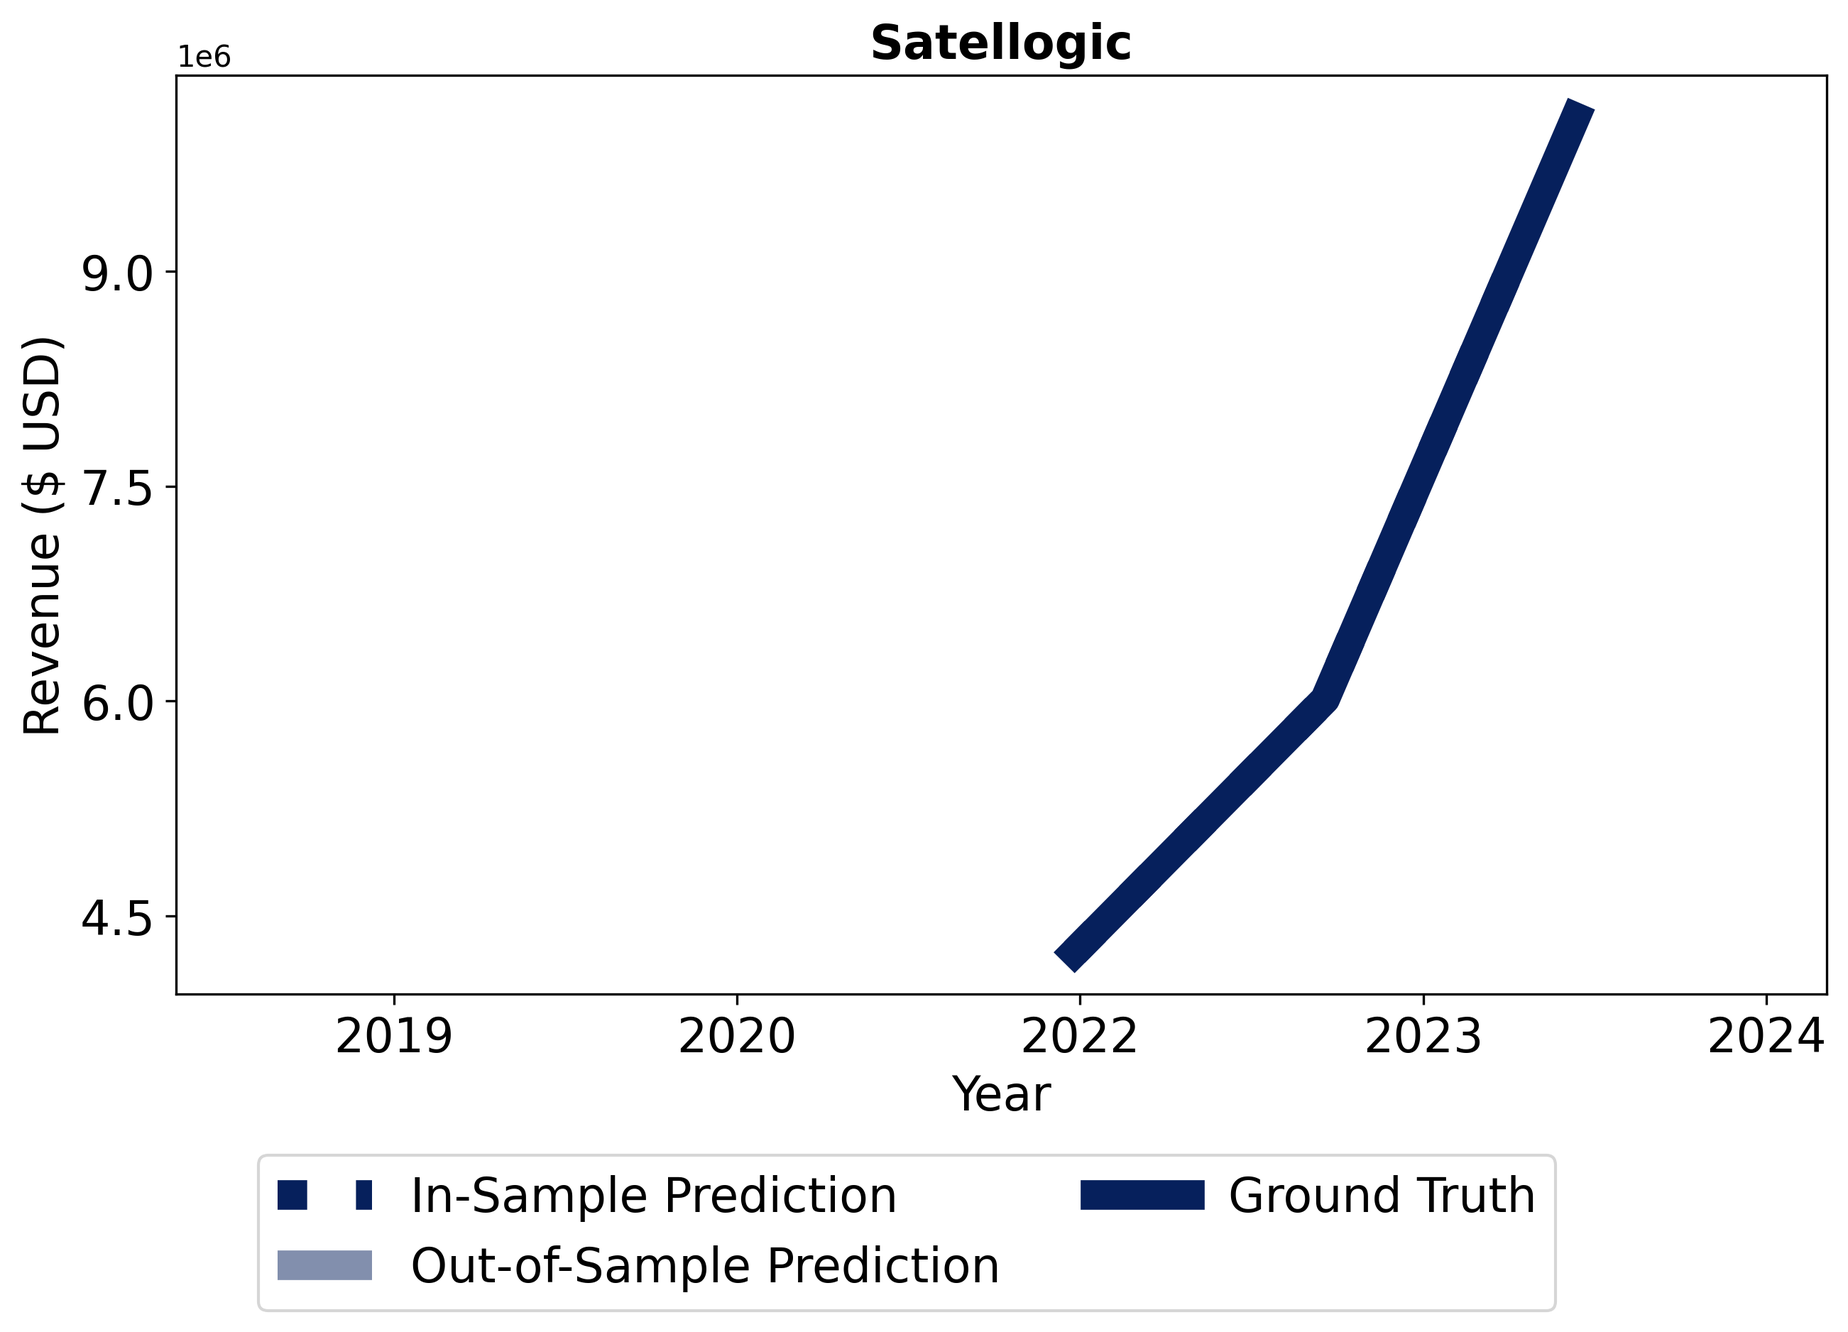
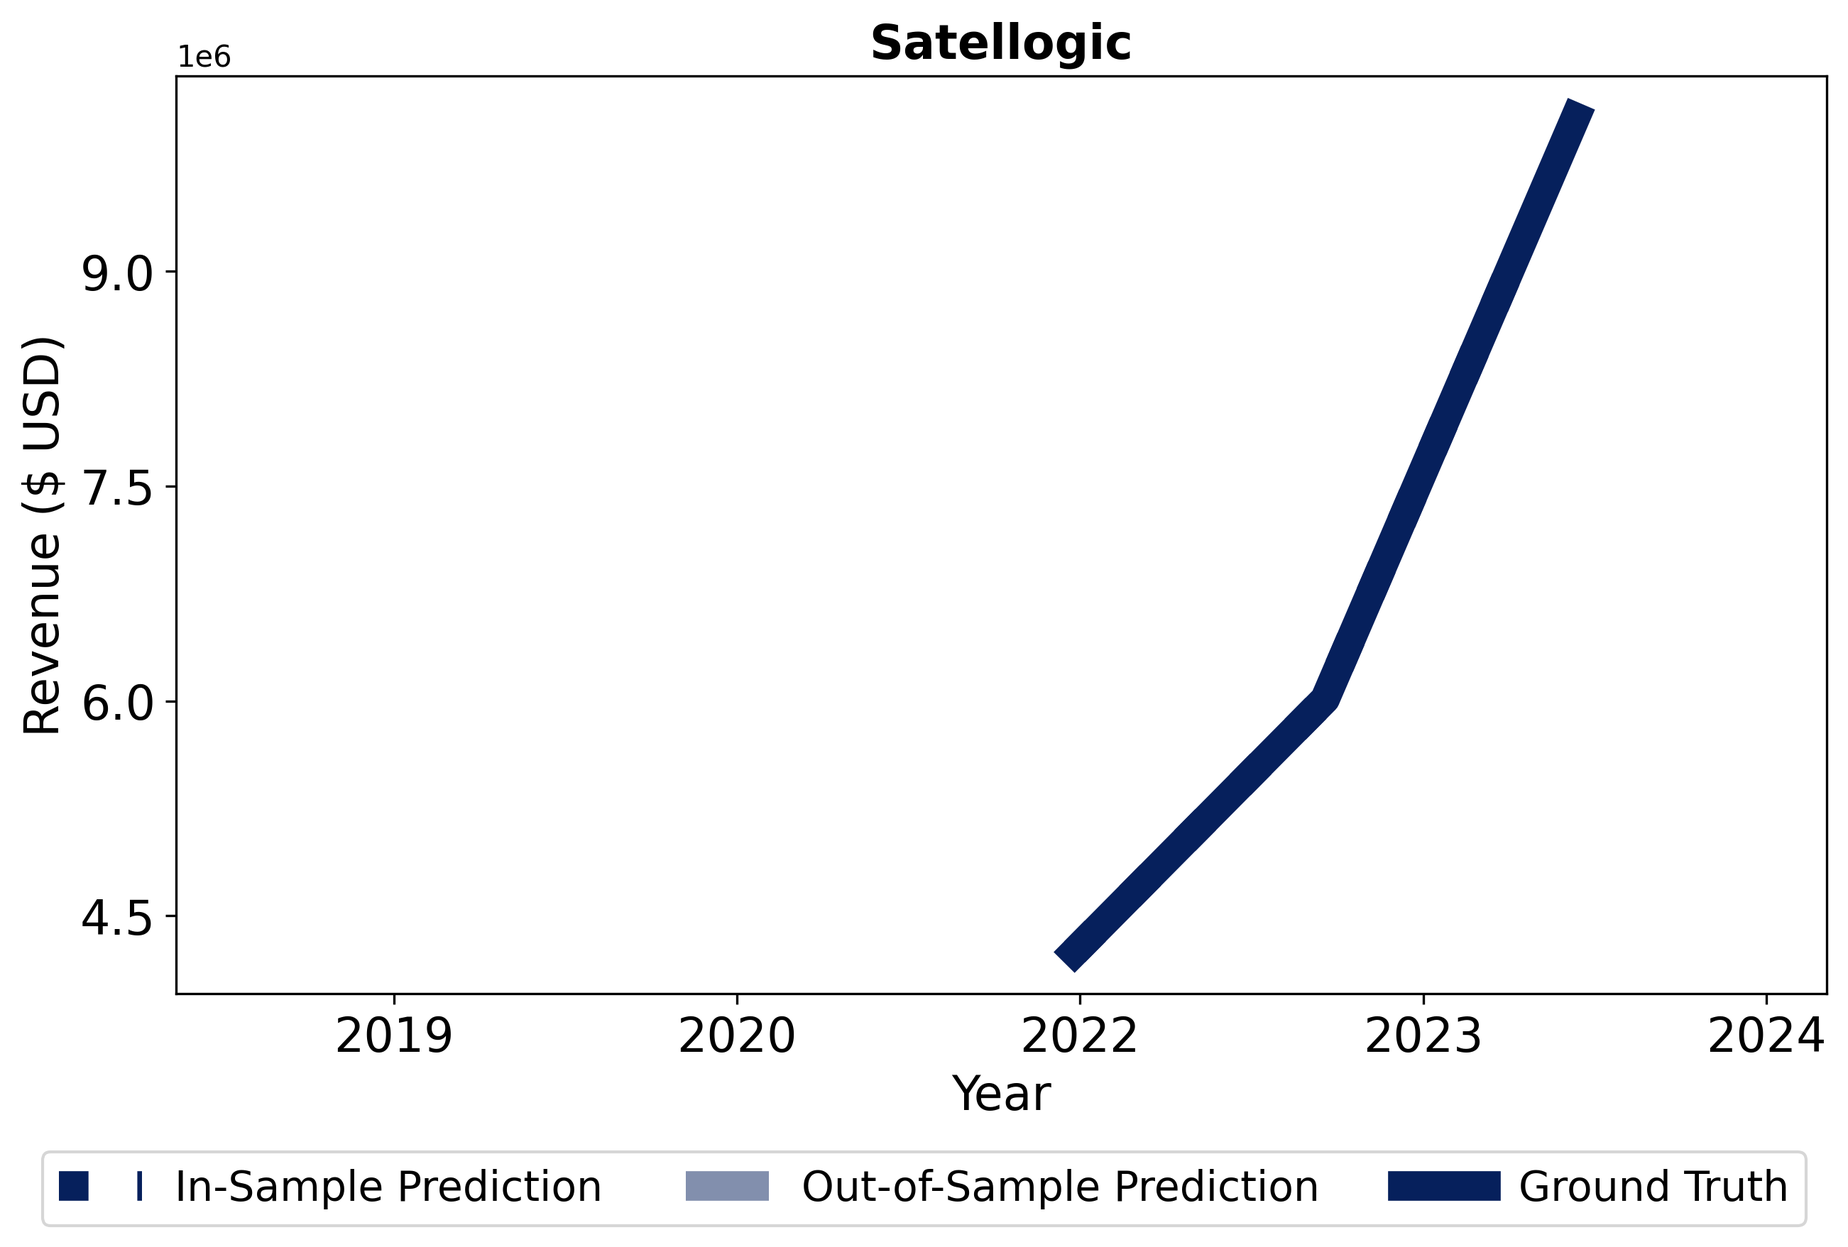
[UPDATE] update plots

diff --git a/src/process.py b/src/process.py
@@ -121,29 +121,31 @@ eurExchangeRateData = pd.read_csv(eurExchangeRatePath, header=None, names=['Date
 eurExchangeRateData['Date'] = pd.to_datetime(eurExchangeRateData['Date'])
 
 # ACF/PACF Plots
-fig1, ax1 = plt.subplots(2, 3, figsize=(12, 10), dpi=300)
-fig1.suptitle("ACF: Assets", fontsize=20)
-fig2, ax2 = plt.subplots(2, 3, figsize=(12, 10), dpi=300)
-fig2.suptitle("PACF: Assets", fontsize=20)
 fig21, ax21 = plt.subplots(2, 3, figsize=(12, 10), dpi=300)
-fig21.suptitle("ACF: Liabilities", fontsize=20)
+fig21.suptitle("ACF: Assets", fontsize=20)
 fig22, ax22 = plt.subplots(2, 3, figsize=(12, 10), dpi=300)
-fig22.suptitle("PACF: Liabilities", fontsize=20)
+fig22.suptitle("PACF: Assets", fontsize=20)
 fig23, ax23 = plt.subplots(2, 3, figsize=(12, 10), dpi=300)
-fig23.suptitle("ACF: Equity", fontsize=20)
+fig23.suptitle("ACF: Liabilities", fontsize=20)
 fig24, ax24 = plt.subplots(2, 3, figsize=(12, 10), dpi=300)
-fig24.suptitle("PACF: Equity", fontsize=20)
+fig24.suptitle("PACF: Liabilities", fontsize=20)
 fig25, ax25 = plt.subplots(2, 3, figsize=(12, 10), dpi=300)
-fig25.suptitle("ACF: Revenue", fontsize=20)
+fig25.suptitle("ACF: Equity", fontsize=20)
 fig26, ax26 = plt.subplots(2, 3, figsize=(12, 10), dpi=300)
-fig26.suptitle("PACF: Revenue", fontsize=20)
+fig26.suptitle("PACF: Equity", fontsize=20)
 fig27, ax27 = plt.subplots(2, 3, figsize=(12, 10), dpi=300)
-fig27.suptitle("ACF: EBITDA", fontsize=20)
+fig27.suptitle("ACF: Revenue", fontsize=20)
 fig28, ax28 = plt.subplots(2, 3, figsize=(12, 10), dpi=300)
-fig28.suptitle("PACF: EBITDA", fontsize=20)
-acf_list = [fig1, fig2, fig21, fig22, fig23, fig24, fig25, fig26, fig27, fig28]
+fig28.suptitle("PACF: Revenue", fontsize=20)
+fig29, ax29 = plt.subplots(2, 3, figsize=(12, 10), dpi=300)
+fig29.suptitle("ACF: EBITDA", fontsize=20)
+fig30, ax30 = plt.subplots(2, 3, figsize=(12, 10), dpi=300)
+fig30.suptitle("PACF: EBITDA", fontsize=20)
+acf_list = [fig21, fig22, fig23, fig24, fig25, fig26, fig27, fig28, fig29, fig30]
 
 # KPI Plots
+fig1, ax1 = plt.subplots(figsize=(10, 7), dpi=300)
+fig2, ax2 = plt.subplots(figsize=(10, 7), dpi=300)
 fig3, ax3 = plt.subplots(figsize=(10, 7), dpi=300)
 fig4, ax4 = plt.subplots(figsize=(10, 7), dpi=300)
 fig5, ax5 = plt.subplots(figsize=(10, 7), dpi=300)
@@ -158,7 +160,7 @@ fig13, ax13 = plt.subplots(figsize=(10, 7), dpi=300)
 fig14, ax14 = plt.subplots(figsize=(10, 7), dpi=300)
 fig15, ax15 = plt.subplots(figsize=(10, 7), dpi=300)
 fig16, ax16 = plt.subplots(figsize=(10, 7), dpi=300)
-fig17, ax17 = plt.subplots(figsize=(10, 7), dpi=300)
+fig17, ax17 = plt.subplots(2, 3, figsize=(30, 20), dpi=300)
 fig18, ax18 = plt.subplots(2, 3, figsize=(30, 20), dpi=300)
 
 for i, company in enumerate(companyMetadata):
@@ -188,80 +190,89 @@ for i, company in enumerate(companyMetadata):
 
         # Determine the last quarter
         last_quarter = filtered_quarters.max()
-        trainingFrame = np.column_stack((transformedData["Total_Assets_USD"][:-split], transformedData["Total_Equity_USD"][:-split], transformedData["Total_Liabilities_USD"][:-split], transformedData["totalSatellites"][:-split]))
-        testingFrame = np.column_stack((transformedData["Total_Assets_USD"][-split:], transformedData["Total_Equity_USD"][-split:], transformedData["Total_Liabilities_USD"][-split:], transformedData["totalSatellites"][-split:]))
-        ardl_fit = ardl_model(transformedData["Revenue_USD"][:-split], trainingFrame, 10)
-
+        trainingFrame1 = np.column_stack((transformedData["Total_Assets_USD"][:-split], transformedData["Total_Equity_USD"][:-split], transformedData["Total_Liabilities_USD"][:-split], transformedData["totalSatellites"][:-split]))
+        testingFrame1 = np.column_stack((transformedData["Total_Assets_USD"][-split:], transformedData["Total_Equity_USD"][-split:], transformedData["Total_Liabilities_USD"][-split:], transformedData["totalSatellites"][-split:]))
+        ardl1_fit = ardl_model(transformedData["Revenue_USD"][:-split], trainingFrame1, 10)
+        trainingFrame2 = np.column_stack((trainingFrame1, transformedData["Revenue_USD"][:-split]))
+        testingFrame2 = np.column_stack((testingFrame1, transformedData["Revenue_USD"][-split:]))
+        ardl2_fit = ardl_model(transformedData["EBITDA_USD"][:-split], trainingFrame2, 10)
+        
         # In-Sample Prediction: Use the model to predict the underlying data
-        inSamplePredictions = ardl_fit.predict(start=0, end=len(trainingFrame)-1)
+        inSamplePredictions1 = ardl1_fit.predict(start=0, end=len(trainingFrame1)-1)
+        inSamplePredictions2 = ardl2_fit.predict(start=0, end=len(trainingFrame2)-1)
         # Out-of-Sample Forecasting: Use the model to forecast on unseen data
         # Note, ardl_fit.predict will output same amount of data it was trained on, hence indexing up to [:split]
-        outSamplePredictions = ardl_fit.predict(exog_oos=testingFrame)[:split]
+        outSamplePredictions1 = ardl1_fit.predict(exog_oos=testingFrame1)[:split]
+        outSamplePredictions2 = ardl2_fit.predict(exog_oos=testingFrame2)[:split]
 
         # print(filteredData["Quarter"])
         if company == "iQPS":
-            plotPredictions(fig12, ax12, company, companyMetadata, filteredData["Quarter"], inSamplePredictions, outSamplePredictions, transformedData["Revenue_USD"], split)
+            plotPredictions(fig10, ax10, company, companyMetadata, filteredData["Quarter"], inSamplePredictions1, outSamplePredictions1, transformedData["Revenue_USD"], "Revenue ($ USD)", split)
         elif company == "GomSpace":
-            plotPredictions(fig13, ax13, company, companyMetadata, filteredData["Quarter"], inSamplePredictions, outSamplePredictions, transformedData["Revenue_USD"], split)
+            plotPredictions(fig11, ax11, company, companyMetadata, filteredData["Quarter"], inSamplePredictions1, outSamplePredictions1, transformedData["Revenue_USD"], "Revenue ($ USD)", split)
         elif company == "Kleos Space":
-            plotPredictions(fig14, ax14, company, companyMetadata, filteredData["Quarter"], inSamplePredictions, outSamplePredictions, transformedData["Revenue_USD"], split)
+            plotPredictions(fig12, ax12, company, companyMetadata, filteredData["Quarter"], inSamplePredictions1, outSamplePredictions1, transformedData["Revenue_USD"], "Revenue ($ USD)", split)
         elif company == "Planet Labs":
-            plotPredictions(fig15, ax15, company, companyMetadata, filteredData["Quarter"], inSamplePredictions, outSamplePredictions, transformedData["Revenue_USD"], split)
+            plotPredictions(fig13, ax13, company, companyMetadata, filteredData["Quarter"], inSamplePredictions1, outSamplePredictions1, transformedData["Revenue_USD"], "Revenue ($ USD)", split)
         elif company == "Satellogic":
-            plotPredictions(fig16, ax16, company, companyMetadata, filteredData["Quarter"], inSamplePredictions, outSamplePredictions, transformedData["Revenue_USD"], split)
+            plotPredictions(fig14, ax14, company, companyMetadata, filteredData["Quarter"], inSamplePredictions1, outSamplePredictions1, transformedData["Revenue_USD"], "Revenue ($ USD)", split)
 
-        fig6 = plotKPIs(fig6, ax6, transformedData, "financialLeverage", companyMetadata, company, 'Financial Leverage')
-        fig7 = plotKPIs(fig7, ax7, transformedData, "ROE", companyMetadata, company, 'Return on Equity')
-        fig8 = plotKPIs(fig8, ax8, transformedData, "netProfitMargin", companyMetadata, company, 'Net Profit Margin')
-        fig9 = plotKPIs(fig9, ax9, transformedData, "assetTurnover", companyMetadata, company, 'Asset Turnover')
-        fig17 = plotKPIs(fig17, ax17, transformedData, "Revenue_USD", companyMetadata, company, 'Revenue ($USD)')
-        plot_acf(transformedData["Revenue_USD"], lags=3, title=company, ax = ax25[i//3, i%3], color = 'red')
-        plot_pacf(transformedData["Revenue_USD"], lags=2, title=company, ax = ax26[i//3, i%3], color = 'red')
-        plot_acf(transformedData["EBITDA_USD"], lags=3, title=company, ax = ax27[i//3, i%3], color = 'red')
-        plot_pacf(transformedData["EBITDA_USD"], lags=2, title=company, ax = ax28[i//3, i%3], color = 'red')
-        plotPredictions(fig18, ax18[i//3, i%3], company, companyMetadata, filteredData["Quarter"], inSamplePredictions, outSamplePredictions, transformedData["Revenue_USD"], split, plotEverything=True)
+        fig4 = plotKPIs(fig4, ax4, transformedData, "financialLeverage", companyMetadata, company, 'Financial Leverage')
+        fig5 = plotKPIs(fig5, ax5, transformedData, "ROE", companyMetadata, company, 'Return on Equity')
+        fig6 = plotKPIs(fig6, ax6, transformedData, "netProfitMargin", companyMetadata, company, 'Net Profit Margin')
+        fig7 = plotKPIs(fig7, ax7, transformedData, "assetTurnover", companyMetadata, company, 'Asset Turnover')
+        fig15 = plotKPIs(fig15, ax15, transformedData, "Revenue_USD", companyMetadata, company, 'Revenue ($USD)')
+        fig16 = plotKPIs(fig16, ax16, transformedData, "EBITDA_USD", companyMetadata, company, 'EBITDA ($USD)')
+        plot_acf(transformedData["Revenue_USD"], lags=3, title=company, ax = ax27[i//3, i%3], color = 'red')
+        plot_pacf(transformedData["Revenue_USD"], lags=2, title=company, ax = ax28[i//3, i%3], color = 'red')
+        plot_acf(transformedData["EBITDA_USD"], lags=3, title=company, ax = ax29[i//3, i%3], color = 'red')
+        plot_pacf(transformedData["EBITDA_USD"], lags=2, title=company, ax = ax30[i//3, i%3], color = 'red')
+        plotPredictions(fig17, ax17[i//3, i%3], company, companyMetadata, filteredData["Quarter"], inSamplePredictions1, outSamplePredictions1, transformedData["Revenue_USD"], "Revenue $ (USD)", split, plotEverything=True)
+        plotPredictions(fig18, ax18[i//3, i%3], company, companyMetadata, filteredData["Quarter"], inSamplePredictions2, outSamplePredictions2, transformedData["EBITDA_USD"], "EBITDA $ (USD)", split, plotEverything=True)
     else:
+        plotPredictions(fig17, ax17[i//3, i%3], company, companyMetadata, plotEverything=True)
         plotPredictions(fig18, ax18[i//3, i%3], company, companyMetadata, plotEverything=True)
 
-    plot_acf(transformedData["Total_Assets_USD"], lags=3, title=company, ax = ax1[i//3, i%3], color = 'red')
-    plot_pacf(transformedData["Total_Assets_USD"], lags=2, title=company, ax = ax2[i//3, i%3], color = 'red')
-    plot_acf(transformedData["Total_Liabilities_USD"], lags=3, title=company, ax = ax21[i//3, i%3], color = 'red')
-    plot_pacf(transformedData["Total_Liabilities_USD"], lags=3, title=company, ax = ax22[i//3, i%3], color = 'red')
-    plot_acf(transformedData["Total_Equity_USD"], lags=3, title=company, ax = ax23[i//3, i%3], color = 'red')
-    plot_pacf(transformedData["Total_Equity_USD"], lags=3, title=company, ax = ax24[i//3, i%3], color = 'red')
+    plot_acf(transformedData["Total_Assets_USD"], lags=3, title=company, ax = ax21[i//3, i%3], color = 'red')
+    plot_pacf(transformedData["Total_Assets_USD"], lags=2, title=company, ax = ax22[i//3, i%3], color = 'red')
+    plot_acf(transformedData["Total_Liabilities_USD"], lags=3, title=company, ax = ax23[i//3, i%3], color = 'red')
+    plot_pacf(transformedData["Total_Liabilities_USD"], lags=3, title=company, ax = ax24[i//3, i%3], color = 'red')
+    plot_acf(transformedData["Total_Equity_USD"], lags=3, title=company, ax = ax25[i//3, i%3], color = 'red')
+    plot_pacf(transformedData["Total_Equity_USD"], lags=3, title=company, ax = ax26[i//3, i%3], color = 'red')
 
-    fig3 = plotGrowthRate(fig3, ax3, transformedData, "growthAssets", companyMetadata, company, 'Total Asset Growth Rate (%)')
-    fig4 = plotGrowthRate(fig4, ax4, transformedData, "growthLiabilities", companyMetadata, company, 'Total Liabilities Growth Rate (%)')
-    fig5 = plotGrowthRate(fig5, ax5, transformedData, "growthEquity", companyMetadata, company, 'Total Equity Growth Rate (%)')
-    fig10 = plotKPIs(fig10, ax10, transformedData, "totalSatellites", companyMetadata, company, 'Total Launched Satellites')
-    fig11 = plotKPIs(fig11, ax11, transformedData, "fractionConstellation", companyMetadata, company, 'Fraction of Constellation Launched')
-
+    fig1 = plotGrowthRate(fig1, ax1, transformedData, "growthAssets", companyMetadata, company, 'Total Asset Growth Rate (%)')
+    fig2 = plotGrowthRate(fig2, ax2, transformedData, "growthLiabilities", companyMetadata, company, 'Total Liabilities Growth Rate (%)')
+    fig3 = plotGrowthRate(fig3, ax3, transformedData, "growthEquity", companyMetadata, company, 'Total Equity Growth Rate (%)')
+    fig8 = plotKPIs(fig8, ax8, transformedData, "totalSatellites", companyMetadata, company, 'Total Launched Satellites')
+    fig9 = plotKPIs(fig9, ax9, transformedData, "fractionConstellation", companyMetadata, company, 'Fraction of Constellation Launched')
 
 for fig in acf_list:
     fig.tight_layout()
-fig1.savefig(f"./images/acf_analysis/Assets_acf.png", bbox_inches='tight')
-fig2.savefig(f"./images/acf_analysis/Assets_pacf.png", bbox_inches='tight')
-fig21.savefig(f"./images/acf_analysis/Liabilities_acf.png", bbox_inches='tight')
-fig22.savefig(f"./images/acf_analysis/Liabilities_pacf.png", bbox_inches='tight')
-fig23.savefig(f"./images/acf_analysis/Equity_acf.png", bbox_inches='tight')
-fig24.savefig(f"./images/acf_analysis/Equity_pacf.png", bbox_inches='tight')
-fig25.savefig(f"./images/acf_analysis/Revenue_acf.png", bbox_inches='tight')
-fig26.savefig(f"./images/acf_analysis/Revenue_pacf.png", bbox_inches='tight')
-fig27.savefig(f"./images/acf_analysis/EBITDA_acf.png", bbox_inches='tight')
-fig28.savefig(f"./images/acf_analysis/EBITDA_pacf.png", bbox_inches='tight')
-fig3.savefig(f"./images/total_asset_growth_rate.png", bbox_inches='tight')
-fig4.savefig(f"./images/total_liabilities_growth_rate.png", bbox_inches='tight')
-fig5.savefig(f"./images/total_equity_growth_rate.png", bbox_inches='tight')
-fig6.savefig(f"./images/financial_leverage.png", bbox_inches='tight')
-fig7.savefig(f"./images/roe.png", bbox_inches='tight')
-fig8.savefig(f"./images/npm.png", bbox_inches='tight')
-fig9.savefig(f"./images/asset_turnover.png", bbox_inches='tight')
-fig10.savefig(f'./images/total_satellites.png', bbox_inches='tight')
-fig11.savefig(f'./images/fraction_constellation.png', bbox_inches='tight')
-fig12.savefig(f'./images/iqps_isp.png', bbox_inches='tight')
-fig13.savefig(f'./images/gom_isp.png', bbox_inches='tight')
-fig14.savefig(f'./images/kleos_isp.png', bbox_inches='tight')
-fig15.savefig(f'./images/planet_isp.png', bbox_inches='tight')
-fig16.savefig(f'./images/satellogic_isp.png', bbox_inches='tight')
-fig17.savefig(f'./images/revenue.png', bbox_inches='tight')
-fig18.savefig(f'./images/revenue_separate.png', bbox_inches='tight')
+fig21.savefig(f"./images/acf_analysis/Assets_acf.png", bbox_inches='tight')
+fig22.savefig(f"./images/acf_analysis/Assets_pacf.png", bbox_inches='tight')
+fig23.savefig(f"./images/acf_analysis/Liabilities_acf.png", bbox_inches='tight')
+fig24.savefig(f"./images/acf_analysis/Liabilities_pacf.png", bbox_inches='tight')
+fig25.savefig(f"./images/acf_analysis/Equity_acf.png", bbox_inches='tight')
+fig26.savefig(f"./images/acf_analysis/Equity_pacf.png", bbox_inches='tight')
+fig27.savefig(f"./images/acf_analysis/Revenue_acf.png", bbox_inches='tight')
+fig28.savefig(f"./images/acf_analysis/Revenue_pacf.png", bbox_inches='tight')
+fig29.savefig(f"./images/acf_analysis/EBITDA_acf.png", bbox_inches='tight')
+fig30.savefig(f"./images/acf_analysis/EBITDA_pacf.png", bbox_inches='tight')
+fig1.savefig(f"./images/total_asset_growth_rate.png", bbox_inches='tight')
+fig2.savefig(f"./images/total_liabilities_growth_rate.png", bbox_inches='tight')
+fig3.savefig(f"./images/total_equity_growth_rate.png", bbox_inches='tight')
+fig4.savefig(f"./images/financial_leverage.png", bbox_inches='tight')
+fig5.savefig(f"./images/roe.png", bbox_inches='tight')
+fig6.savefig(f"./images/npm.png", bbox_inches='tight')
+fig7.savefig(f"./images/asset_turnover.png", bbox_inches='tight')
+fig8.savefig(f'./images/total_satellites.png', bbox_inches='tight')
+fig9.savefig(f'./images/fraction_constellation.png', bbox_inches='tight')
+fig10.savefig(f'./images/iqps_isp.png', bbox_inches='tight')
+fig11.savefig(f'./images/gom_isp.png', bbox_inches='tight')
+fig12.savefig(f'./images/kleos_isp.png', bbox_inches='tight')
+fig13.savefig(f'./images/planet_isp.png', bbox_inches='tight')
+fig14.savefig(f'./images/satellogic_isp.png', bbox_inches='tight')
+fig15.savefig(f'./images/revenue.png', bbox_inches='tight')
+fig16.savefig(f'./images/ebitda.png', bbox_inches='tight')
+fig17.savefig(f'./images/revenue_separate.png', bbox_inches='tight')
+fig18.savefig(f'./images/ebitda_separate.png', bbox_inches='tight')

diff --git a/src/plot_utils.py b/src/plot_utils.py
@@ -25,27 +25,30 @@ def plotKPIs(fig, ax, data, key, companyMetadata, company, ylabel):
     ax.plot(data["Quarter"], data[key], color=company_color, linestyle=companyMetadata[company]["style"], label=company, linewidth=10)
     ax.legend(ncol=3, bbox_to_anchor=(0.9, -0.15), fancybox=True, title="Company", fontsize='16', frameon=True)
     ax.set_xlim([pd.to_datetime('2018-06-01'), pd.to_datetime('2024-12-31')])
+    if ylabel=="Revenue ($USD)":
+        ax.set_yscale('log')
+        ax.set_ylim([1, 10**9])
     fig.tight_layout()
     box = ax.get_position()
     ax.set_position([box.x0, box.y0 + box.height * 0.2, box.width, box.height * 0.8])
     plt.rcParams['legend.title_fontsize'] = '16'
     return fig
 
-def plotPredictions(fig, ax, company, companyMetadata, time=None, inSamplePrediction=None, outSamplePrediction=None, ground_truth=None, split=None, plotEverything=False):
+def plotPredictions(fig, ax, company, companyMetadata, time=None, inSamplePrediction=None, outSamplePrediction=None, ground_truth=None, ylabel=None, split=None, plotEverything=False):
     size = 22
     if company != "Synspective" and not plotEverything:
         company_color = np.array(companyMetadata[company]["color"]) / 255
         ax.set_title(company, fontsize=16, fontweight='bold')
         ax.tick_params(axis='both', which='major', labelsize=16)
         ax.set_xlabel('Year', fontsize=16)
-        ax.set_ylabel('Revenue ($ USD)', fontsize=16)
+        ax.set_ylabel(ylabel, fontsize=16)
         ax.xaxis.set_major_locator(ticker.MaxNLocator(nbins=5))
         ax.yaxis.set_major_locator(ticker.MaxNLocator(nbins=5))
         ax.set_xlim([pd.to_datetime('2018-06-01'), pd.to_datetime('2024-12-31')])
         ax.plot(time[:-split], inSamplePrediction, color=company_color, linestyle="dotted", label="In-Sample Prediction", linewidth=10)
         ax.plot(time[-split:], outSamplePrediction, color=company_color, alpha=0.5, linestyle="dashed", label="Out-of-Sample Prediction", linewidth=10)
         ax.plot(time, ground_truth, color=company_color, linestyle="solid", label="Ground Truth", linewidth=10)
-        ax.legend(ncol=2, bbox_to_anchor=(0.85, -0.15), fancybox=True, fontsize='16', frameon=True)
+        ax.legend(ncol=3, bbox_to_anchor=(1.0, -0.15), fancybox=True, fontsize='14', frameon=True)
         box = ax.get_position()
         ax.set_position([box.x0, box.y0 + box.height * 0.2, box.width, box.height * 0.8])
     elif company!= "Synspective" and plotEverything:
@@ -77,6 +80,6 @@ def plotPredictions(fig, ax, company, companyMetadata, time=None, inSamplePredic
         line2, = ax.plot([], [], color='k', linestyle="dashed", alpha=0.5, linewidth=12, label='Out-of-Sample Prediction')
         line3, = ax.plot([], [], color='k', linestyle="solid", linewidth=12, label='Ground Truth Data')
         # Add the legend with specified labels
-        fig.legend([line1, line2, line3], ['In-Sample Prediction', 'Out-of-Sample Prediction', 'Ground Truth Data'],
-           loc='upper center', bbox_to_anchor=(0.5, 0.08), ncol=2, prop={'size': size})
+        fig.legend([line1, line2, line3], ['In-Sam1le Prediction', 'Out-of-Sample Prediction', 'Ground Truth Data'],
+           loc='upper center', bbox_to_anchor=(0.5, 0.08), ncol=3, prop={'size': size})
     return fig
